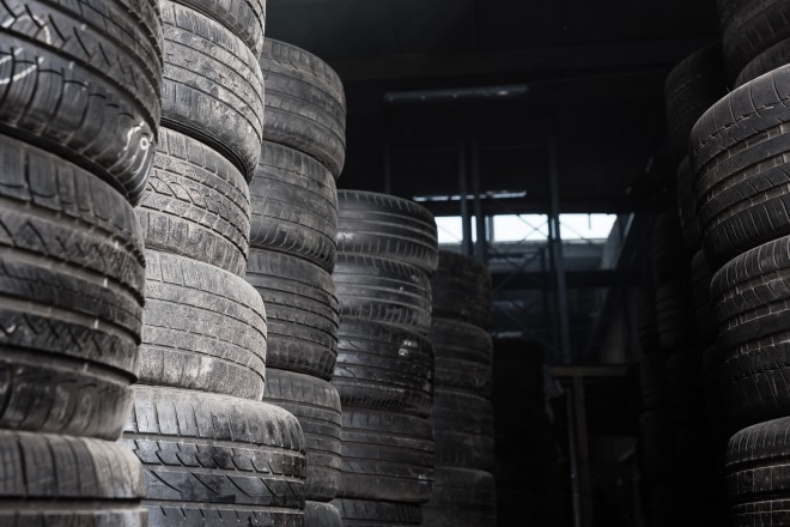
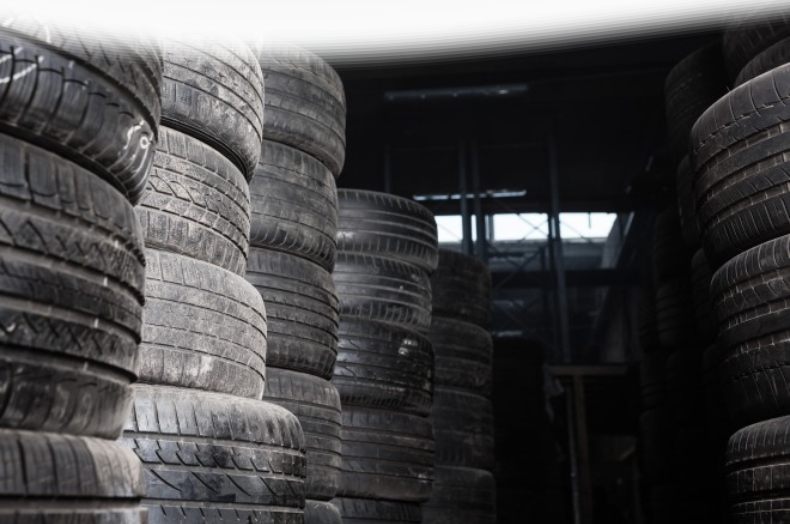
'Добавил секцию '

diff --git a/dist/css/main.min.css b/dist/css/main.min.css
@@ -1,2 +1,2 @@
-abbr,address,article,aside,audio,b,blockquote,body,button,canvas,cite,code,dd,del,details,dfn,div,dl,dt,em,fieldset,figcaption,figure,footer,form,h1,h2,h3,h4,h5,h6,header,hgroup,html,i,iframe,img,ins,kbd,label,legend,li,mark,menu,nav,object,ol,p,pre,q,samp,section,small,span,strong,summary,time,ul,var,video{margin:0;padding:0;border:0;outline:0;font-size:100%;vertical-align:baseline;background:0 0;-webkit-box-sizing:border-box;box-sizing:border-box}abbr:after,abbr:before,address:after,address:before,article:after,article:before,aside:after,aside:before,audio:after,audio:before,b:after,b:before,blockquote:after,blockquote:before,body:after,body:before,button:after,button:before,canvas:after,canvas:before,cite:after,cite:before,code:after,code:before,dd:after,dd:before,del:after,del:before,details:after,details:before,dfn:after,dfn:before,div:after,div:before,dl:after,dl:before,dt:after,dt:before,em:after,em:before,fieldset:after,fieldset:before,figcaption:after,figcaption:before,figure:after,figure:before,footer:after,footer:before,form:after,form:before,h1:after,h1:before,h2:after,h2:before,h3:after,h3:before,h4:after,h4:before,h5:after,h5:before,h6:after,h6:before,header:after,header:before,hgroup:after,hgroup:before,html:after,html:before,i:after,i:before,iframe:after,iframe:before,img:after,img:before,ins:after,ins:before,kbd:after,kbd:before,label:after,label:before,legend:after,legend:before,li:after,li:before,mark:after,mark:before,menu:after,menu:before,nav:after,nav:before,object:after,object:before,ol:after,ol:before,p:after,p:before,pre:after,pre:before,q:after,q:before,samp:after,samp:before,section:after,section:before,small:after,small:before,span:after,span:before,strong:after,strong:before,summary:after,summary:before,time:after,time:before,ul:after,ul:before,var:after,var:before,video:after,video:before{-webkit-box-sizing:border-box;box-sizing:border-box}sub,sup{margin:0;padding:0;border:0;outline:0;font-size:100%;background:0 0;-webkit-box-sizing:border-box;box-sizing:border-box}sub:after,sub:before,sup:after,sup:before{-webkit-box-sizing:border-box;box-sizing:border-box}a:after,a:before{-webkit-box-sizing:border-box;box-sizing:border-box}caption,table,tbody,td,tfoot,th,thead,tr{margin:0;padding:0;border:0;outline:0;font-size:100%;background:0 0}article,aside,details,figcaption,figure,footer,header,hgroup,menu,nav,section{display:block}li,ol,ul{list-style:none}blockquote,q{quotes:none}blockquote:after,blockquote:before{content:none}q:after,q:before{content:none}:focus{outline:0}input[type=text],textarea{-webkit-appearance:none}input[type=text]::-ms-clear,textarea::-ms-clear{display:none}input,textarea{-webkit-border-radius:0;border-radius:0;-webkit-box-sizing:border-box;box-sizing:border-box}input::-webkit-input-placeholder,textarea::-webkit-input-placeholder{color:inherit}input::-moz-placeholder,textarea::-moz-placeholder{color:inherit}input:-ms-input-placeholder,textarea:-ms-input-placeholder{color:inherit}input:focus::-webkit-input-placeholder,textarea:focus::-webkit-input-placeholder{color:transparent}input:focus::-moz-placeholder,textarea:focus::-moz-placeholder{color:transparent}input:focus:-ms-input-placeholder,textarea:focus:-ms-input-placeholder{color:transparent}textarea{resize:none}ins{text-decoration:none}del{text-decoration:line-through}table{border-collapse:collapse;border-spacing:0}*{-webkit-box-sizing:border-box;box-sizing:border-box;word-wrap:break-word}.b-about__icon,.b-certificates__icon{-webkit-border-radius:50%;border-radius:50%}body,html{max-width:100%;overflow-x:hidden}html{font-size:16px}body{font-family:"Myriad Pro",sans-serif;position:relative}a{text-decoration:none!important;-webkit-transition:color .3s ease-in-out;-o-transition:color .3s ease-in-out;transition:color .3s ease-in-out;color:inherit}*{outline:0;-webkit-box-sizing:border-box;box-sizing:border-box}img{-o-object-fit:cover;object-fit:cover;max-width:100%;max-height:100%}svg{max-width:100%;max-height:100%}textarea{resize:none}.first-bg{background:url(../img/main-bg.png) no-repeat center center/cover}.container{max-width:1080px;width:100%;margin-left:auto;margin-right:auto}@media only screen and (max-width:1319px){.container{max-width:none;padding:0 65px}}@media only screen and (max-width:768px){.container{padding:0 9%}}@media only screen and (max-width:576px){.container{padding:0 8%}}@font-face{font-family:Roboto;src:url(../fonts/RobotoLight/RobotoLight.eot);src:url(../fonts/RobotoLight/RobotoLight.eot?#iefix) format("embedded-opentype"),url(../fonts/RobotoLight/RobotoLight.woff) format("woff"),url(../fonts/RobotoLight/RobotoLight.ttf) format("truetype"),url(../fonts/RobotoLight/RobotoLight.svg) format("svg");font-weight:300}@font-face{font-family:Roboto;src:url(../fonts/RobotoBold/RobotoBold.eot);src:url(../fonts/RobotoBold/RobotoBold.eot?#iefix) format("embedded-opentype"),url(../fonts/RobotoBold/RobotoBold.woff) format("woff"),url(../fonts/RobotoBold/RobotoBold.ttf) format("truetype"),url(../fonts/RobotoBold/RobotoBold.svg) format("svg");font-weight:700}@font-face{font-family:"Myriad Pro";src:url(../fonts/MyriadProRegular/MyriadProRegular.eot);src:url(../fonts/MyriadProRegular/MyriadProRegular.eot?#iefix) format("embedded-opentype"),url(../fonts/MyriadProRegular/MyriadProRegular.woff) format("woff"),url(../fonts/MyriadProRegular/MyriadProRegular.ttf) format("truetype"),url(../fonts/MyriadProRegular/MyriadProRegular.svg) format("svg");font-weight:400}@font-face{font-family:"Myriad Pro";src:url(../fonts/MyriadProBold/MyriadProBold.eot);src:url(../fonts/MyriadProBold/MyriadProBold.eot?#iefix) format("embedded-opentype"),url(../fonts/MyriadProBold/MyriadProBold.woff) format("woff"),url(../fonts/MyriadProBold/MyriadProBold.ttf) format("truetype"),url(../fonts/MyriadProBold/MyriadProBold.svg) format("svg");font-weight:700}@font-face{font-family:"Myriad Pro Cond";src:url(../fonts/MyriadProCond/MyriadProCond.eot);src:url(../fonts/MyriadProCond/MyriadProCond.eot?#iefix) format("embedded-opentype"),url(../fonts/MyriadProCond/MyriadProCond.woff) format("woff"),url(../fonts/MyriadProCond/MyriadProCond.ttf) format("truetype"),url(../fonts/MyriadProCond/MyriadProCond.svg) format("svg");font-weight:400}.b-burger{display:none;border:none;background:0 0;-webkit-box-shadow:none;box-shadow:none;width:32px;height:20px;position:relative;-webkit-transform:rotate(0);-ms-transform:rotate(0);transform:rotate(0);-webkit-transition:.5s ease-in-out;-o-transition:.5s ease-in-out;transition:.5s ease-in-out;cursor:pointer}.b-burger span{display:block;position:absolute;height:4px;width:100%;-webkit-border-radius:9px;border-radius:9px;-webkit-transform:rotate(0);-ms-transform:rotate(0);transform:rotate(0);-webkit-transition:.25s ease-in-out;-o-transition:.25s ease-in-out;transition:.25s ease-in-out;opacity:1;left:0}.b-burger span:nth-child(1){top:0;-webkit-transform-origin:center center;-ms-transform-origin:center center;transform-origin:center center}.b-burger span:nth-child(2){top:50%;-webkit-transform-origin:left center;-ms-transform-origin:left center;transform-origin:left center}.b-burger span:nth-child(3){top:100%;-webkit-transform-origin:center center;-ms-transform-origin:center center;transform-origin:center center}.b-burger--active span:nth-child(1){-webkit-transform:translate(0,-50%) rotate(45deg);-ms-transform:translate(0,-50%) rotate(45deg);transform:translate(0,-50%) rotate(45deg);top:50%}.b-burger--active span:nth-child(2){width:0;opacity:0}.b-burger--active span:nth-child(3){-webkit-transform:translate(0,-50%) rotate(-45deg);-ms-transform:translate(0,-50%) rotate(-45deg);transform:translate(0,-50%) rotate(-45deg);top:50%}.b-logo{width:120px;height:210px;background:#fff;padding:27px 5px 5px;text-align:center;color:#000;-webkit-border-bottom-right-radius:55px;border-bottom-right-radius:55px;-webkit-border-bottom-left-radius:55px;border-bottom-left-radius:55px}.b-logo span{font-size:1rem;font-weight:700;text-transform:uppercase;letter-spacing:-1px;line-height:14px;display:inline-block}.b-logo p{font-size:5.5rem;font-weight:700;text-transform:uppercase;line-height:70px;font-family:'Myriad Pro Cond',sans-serif;letter-spacing:-2px}.b-logo img{margin-top:-15px}.b-button{display:-webkit-box;display:-webkit-flex;display:-ms-flexbox;display:flex;-webkit-box-pack:center;-webkit-justify-content:center;-ms-flex-pack:center;justify-content:center;-webkit-box-align:center;-webkit-align-items:center;-ms-flex-align:center;align-items:center;-webkit-box-shadow:none;box-shadow:none;border:none;background:#75b53e;cursor:pointer;-webkit-transition:all .3s ease-in-out;-o-transition:all .3s ease-in-out;transition:all .3s ease-in-out}.b-button__content{color:#fff}.b-button--large{width:220px;height:65px;-webkit-border-radius:50px;border-radius:50px}.b-button--large span{font-size:1.25rem;font-weight:700;text-transform:uppercase;letter-spacing:-1px}.b-button:hover{background:rgba(117,181,62,.8)}.b-next{display:-webkit-inline-box;display:-webkit-inline-flex;display:-ms-inline-flexbox;display:inline-flex;-webkit-box-align:center;-webkit-align-items:center;-ms-flex-align:center;align-items:center}.b-next svg{width:14px;height:14px;margin-right:6px}.b-next span{font-size:.625rem;color:#626366}.b-header{color:#fff}.b-header__container{max-width:1170px;margin-left:auto;margin-right:auto;display:-webkit-box;display:-webkit-flex;display:-ms-flexbox;display:flex;-webkit-box-pack:justify;-webkit-justify-content:space-between;-ms-flex-pack:justify;justify-content:space-between}.b-header__contacts{padding-top:27px}.b-header__contacts a{-webkit-transition:all .3s ease-in-out;-o-transition:all .3s ease-in-out;transition:all .3s ease-in-out}.b-header__contacts a:hover{color:#75b53e}.b-header__phone{font-size:1.5rem;letter-spacing:-.24px;display:block}.b-header__call{font-size:.875rem}.b-menu{padding-top:27px;display:-webkit-box;display:-webkit-flex;display:-ms-flexbox;display:flex;-webkit-box-pack:justify;-webkit-justify-content:space-between;-ms-flex-pack:justify;justify-content:space-between;width:561px;font-size:.875rem;font-weight:700;text-transform:uppercase}.b-menu__link{-webkit-transition:all .3s ease-in-out;-o-transition:all .3s ease-in-out;transition:all .3s ease-in-out;display:inline-table}.b-menu__link:hover{color:#75b53e}.b-main{padding-bottom:150px;margin-top:58px;color:#fff}.b-main__container{max-width:1170px;margin-left:auto;margin-right:auto}.b-main__title{font-size:2.5rem;font-weight:700;text-transform:uppercase;font-family:Roboto,sans-serif;max-width:336px;letter-spacing:-1px;margin-bottom:15px}.b-main__text{font-size:1.5rem;max-width:660px;letter-spacing:-.6px;-webkit-hyphens:auto;-ms-hyphens:auto;hyphens:auto}.b-main__button{margin-top:35px}.b-cards{margin-top:150px;position:relative}.b-cards::before{content:"";display:block;position:absolute;width:100%;height:40%;bottom:0;background-color:#f7f7f7;z-index:-1}.b-cards__items{display:-webkit-box;display:-webkit-flex;display:-ms-flexbox;display:flex;-webkit-box-pack:justify;-webkit-justify-content:space-between;-ms-flex-pack:justify;justify-content:space-between;-webkit-box-align:center;-webkit-align-items:center;-ms-flex-align:center;align-items:center}.b-cards__item{width:345px;height:450px;position:relative;padding:0 26px;color:#fff}.b-cards__bg{position:absolute;top:0;left:0;z-index:-1}.b-cards__icon{width:40px;height:40px;margin-top:126px;margin-bottom:30px}.b-cards__text{font-size:1.625rem;font-weight:700;text-transform:uppercase;font-family:Roboto,sans-serif;max-width:245px}.b-about{background-color:#f7f7f7;padding-top:127px;text-align:center;position:relative}.b-about__title{font-size:2.25rem;font-weight:700;font-family:Roboto,sans-serif;margin-bottom:13px}.b-about__subtitle{font-size:1.125rem;letter-spacing:-.18px;margin-left:auto;margin-right:auto;color:#626366;line-height:23px}.b-about__cards{margin-top:90px;max-width:980px;display:-webkit-box;display:-webkit-flex;display:-ms-flexbox;display:flex;-webkit-box-pack:justify;-webkit-justify-content:space-between;-ms-flex-pack:justify;justify-content:space-between;-webkit-box-align:center;-webkit-align-items:center;-ms-flex-align:center;align-items:center}.b-about__card{width:200px;text-align:center}.b-about__icon{background:#38424b;width:113px;height:113px;display:-webkit-box;display:-webkit-flex;display:-ms-flexbox;display:flex;-webkit-box-pack:center;-webkit-justify-content:center;-ms-flex-pack:center;justify-content:center;-webkit-box-align:center;-webkit-align-items:center;-ms-flex-align:center;align-items:center;margin-left:auto;margin-right:auto;margin-bottom:50px}.b-about__name{font-size:1.125rem;font-weight:700;letter-spacing:-1px;margin-bottom:10px;line-height:20px;height:45px}.b-about__text{font-size:.625rem;color:#626366;letter-spacing:-.18px;margin-bottom:37px}.b-about::before{content:"";display:block;position:absolute;background:url(../img/about-bg.png) no-repeat center center/cover;bottom:-100px;z-index:-1;width:100%;height:200px}.b-clear{background:url(../img/clear-bg.png) no-repeat center center/100%;padding-top:130px;margin-top:250px;position:relative;color:#000;height:930px}.b-clear__title{font-size:3.125rem;font-weight:700;font-family:Roboto,sans-serif;line-height:61px;text-align:center;max-width:750px;margin-left:auto;margin-right:auto}.b-certificates{background-color:#f7f7f7;padding-top:125px;padding-bottom:191px}.b-certificates__title{margin-left:40px;font-size:2.25rem;font-weight:700;font-family:Roboto,sans-serif;margin-bottom:95px}.b-certificates__cards{display:-webkit-box;display:-webkit-flex;display:-ms-flexbox;display:flex;-webkit-box-pack:justify;-webkit-justify-content:space-between;-ms-flex-pack:justify;justify-content:space-between;-webkit-box-align:center;-webkit-align-items:center;-ms-flex-align:center;align-items:center}.b-certificates__card{max-width:251px;text-align:center}.b-certificates__icon{width:113px;height:113px;background:#38424b;display:-webkit-box;display:-webkit-flex;display:-ms-flexbox;display:flex;-webkit-box-pack:center;-webkit-justify-content:center;-ms-flex-pack:center;justify-content:center;-webkit-box-align:center;-webkit-align-items:center;-ms-flex-align:center;align-items:center;margin-left:auto;margin-right:auto;margin-bottom:25px}.b-certificates__name{font-size:1.125rem;font-weight:700;letter-spacing:-.18px;color:#231f20;margin-bottom:10px}.b-certificates__text{font-size:.625rem;color:#626366;line-height:14px;letter-spacing:-.18px;margin-bottom:34px}.b-scope{padding-top:120px;padding-left:31px}.b-scope__title{font-size:2.25rem;font-weight:700;font-family:Roboto,sans-serif;margin-bottom:31px}.b-scope__cards{display:-webkit-box;display:-webkit-flex;display:-ms-flexbox;display:flex;-webkit-box-pack:justify;-webkit-justify-content:space-between;-ms-flex-pack:justify;justify-content:space-between;max-width:1000px}.b-scope__card{width:315px}.b-scope__img{margin-bottom:13px}.b-scope__name{font-size:1.125rem;font-weight:700;font-family:Roboto,sans-serif;letter-spacing:-.9px;color:#75b53e;margin-bottom:12px}.b-scope__text{font-size:.625rem;color:#626366;line-height:14px;margin-bottom:20px}
+abbr,address,article,aside,audio,b,blockquote,body,button,canvas,cite,code,dd,del,details,dfn,div,dl,dt,em,fieldset,figcaption,figure,footer,form,h1,h2,h3,h4,h5,h6,header,hgroup,html,i,iframe,img,ins,kbd,label,legend,li,mark,menu,nav,object,ol,p,pre,q,samp,section,small,span,strong,summary,time,ul,var,video{margin:0;padding:0;border:0;outline:0;font-size:100%;vertical-align:baseline;background:0 0;-webkit-box-sizing:border-box;box-sizing:border-box}abbr:after,abbr:before,address:after,address:before,article:after,article:before,aside:after,aside:before,audio:after,audio:before,b:after,b:before,blockquote:after,blockquote:before,body:after,body:before,button:after,button:before,canvas:after,canvas:before,cite:after,cite:before,code:after,code:before,dd:after,dd:before,del:after,del:before,details:after,details:before,dfn:after,dfn:before,div:after,div:before,dl:after,dl:before,dt:after,dt:before,em:after,em:before,fieldset:after,fieldset:before,figcaption:after,figcaption:before,figure:after,figure:before,footer:after,footer:before,form:after,form:before,h1:after,h1:before,h2:after,h2:before,h3:after,h3:before,h4:after,h4:before,h5:after,h5:before,h6:after,h6:before,header:after,header:before,hgroup:after,hgroup:before,html:after,html:before,i:after,i:before,iframe:after,iframe:before,img:after,img:before,ins:after,ins:before,kbd:after,kbd:before,label:after,label:before,legend:after,legend:before,li:after,li:before,mark:after,mark:before,menu:after,menu:before,nav:after,nav:before,object:after,object:before,ol:after,ol:before,p:after,p:before,pre:after,pre:before,q:after,q:before,samp:after,samp:before,section:after,section:before,small:after,small:before,span:after,span:before,strong:after,strong:before,summary:after,summary:before,time:after,time:before,ul:after,ul:before,var:after,var:before,video:after,video:before{-webkit-box-sizing:border-box;box-sizing:border-box}sub,sup{margin:0;padding:0;border:0;outline:0;font-size:100%;background:0 0;-webkit-box-sizing:border-box;box-sizing:border-box}sub:after,sub:before,sup:after,sup:before{-webkit-box-sizing:border-box;box-sizing:border-box}a:after,a:before{-webkit-box-sizing:border-box;box-sizing:border-box}caption,table,tbody,td,tfoot,th,thead,tr{margin:0;padding:0;border:0;outline:0;font-size:100%;background:0 0}article,aside,details,figcaption,figure,footer,header,hgroup,menu,nav,section{display:block}li,ol,ul{list-style:none}blockquote,q{quotes:none}blockquote:after,blockquote:before{content:none}q:after,q:before{content:none}:focus{outline:0}input[type=text],textarea{-webkit-appearance:none}input[type=text]::-ms-clear,textarea::-ms-clear{display:none}input,textarea{-webkit-border-radius:0;border-radius:0;-webkit-box-sizing:border-box;box-sizing:border-box}input::-webkit-input-placeholder,textarea::-webkit-input-placeholder{color:inherit}input::-moz-placeholder,textarea::-moz-placeholder{color:inherit}input:-ms-input-placeholder,textarea:-ms-input-placeholder{color:inherit}input:focus::-webkit-input-placeholder,textarea:focus::-webkit-input-placeholder{color:transparent}input:focus::-moz-placeholder,textarea:focus::-moz-placeholder{color:transparent}input:focus:-ms-input-placeholder,textarea:focus:-ms-input-placeholder{color:transparent}textarea{resize:none}ins{text-decoration:none}del{text-decoration:line-through}table{border-collapse:collapse;border-spacing:0}*{-webkit-box-sizing:border-box;box-sizing:border-box;word-wrap:break-word}.b-about__icon,.b-certificates__icon{-webkit-border-radius:50%;border-radius:50%}body,html{max-width:100%;overflow-x:hidden}html{font-size:16px}body{font-family:"Myriad Pro",sans-serif;position:relative}a{text-decoration:none!important;-webkit-transition:color .3s ease-in-out;-o-transition:color .3s ease-in-out;transition:color .3s ease-in-out;color:inherit}*{outline:0;-webkit-box-sizing:border-box;box-sizing:border-box}img{-o-object-fit:cover;object-fit:cover;max-width:100%;max-height:100%}svg{max-width:100%;max-height:100%}textarea{resize:none}.first-bg{background:url(../img/main-bg.png) no-repeat center center/cover}.container{max-width:1080px;width:100%;margin-left:auto;margin-right:auto}@media only screen and (max-width:1319px){.container{max-width:none;padding:0 65px}}@media only screen and (max-width:768px){.container{padding:0 9%}}@media only screen and (max-width:576px){.container{padding:0 8%}}@font-face{font-family:Roboto;src:url(../fonts/RobotoLight/RobotoLight.eot);src:url(../fonts/RobotoLight/RobotoLight.eot?#iefix) format("embedded-opentype"),url(../fonts/RobotoLight/RobotoLight.woff) format("woff"),url(../fonts/RobotoLight/RobotoLight.ttf) format("truetype"),url(../fonts/RobotoLight/RobotoLight.svg) format("svg");font-weight:300}@font-face{font-family:Roboto;src:url(../fonts/RobotoBold/RobotoBold.eot);src:url(../fonts/RobotoBold/RobotoBold.eot?#iefix) format("embedded-opentype"),url(../fonts/RobotoBold/RobotoBold.woff) format("woff"),url(../fonts/RobotoBold/RobotoBold.ttf) format("truetype"),url(../fonts/RobotoBold/RobotoBold.svg) format("svg");font-weight:700}@font-face{font-family:"Myriad Pro";src:url(../fonts/MyriadProRegular/MyriadProRegular.eot);src:url(../fonts/MyriadProRegular/MyriadProRegular.eot?#iefix) format("embedded-opentype"),url(../fonts/MyriadProRegular/MyriadProRegular.woff) format("woff"),url(../fonts/MyriadProRegular/MyriadProRegular.ttf) format("truetype"),url(../fonts/MyriadProRegular/MyriadProRegular.svg) format("svg");font-weight:400}@font-face{font-family:"Myriad Pro";src:url(../fonts/MyriadProBold/MyriadProBold.eot);src:url(../fonts/MyriadProBold/MyriadProBold.eot?#iefix) format("embedded-opentype"),url(../fonts/MyriadProBold/MyriadProBold.woff) format("woff"),url(../fonts/MyriadProBold/MyriadProBold.ttf) format("truetype"),url(../fonts/MyriadProBold/MyriadProBold.svg) format("svg");font-weight:700}@font-face{font-family:"Myriad Pro Cond";src:url(../fonts/MyriadProCond/MyriadProCond.eot);src:url(../fonts/MyriadProCond/MyriadProCond.eot?#iefix) format("embedded-opentype"),url(../fonts/MyriadProCond/MyriadProCond.woff) format("woff"),url(../fonts/MyriadProCond/MyriadProCond.ttf) format("truetype"),url(../fonts/MyriadProCond/MyriadProCond.svg) format("svg");font-weight:400}.b-burger{display:none;border:none;background:0 0;-webkit-box-shadow:none;box-shadow:none;width:32px;height:20px;position:relative;-webkit-transform:rotate(0);-ms-transform:rotate(0);transform:rotate(0);-webkit-transition:.5s ease-in-out;-o-transition:.5s ease-in-out;transition:.5s ease-in-out;cursor:pointer}.b-burger span{display:block;position:absolute;height:4px;width:100%;-webkit-border-radius:9px;border-radius:9px;-webkit-transform:rotate(0);-ms-transform:rotate(0);transform:rotate(0);-webkit-transition:.25s ease-in-out;-o-transition:.25s ease-in-out;transition:.25s ease-in-out;opacity:1;left:0}.b-burger span:nth-child(1){top:0;-webkit-transform-origin:center center;-ms-transform-origin:center center;transform-origin:center center}.b-burger span:nth-child(2){top:50%;-webkit-transform-origin:left center;-ms-transform-origin:left center;transform-origin:left center}.b-burger span:nth-child(3){top:100%;-webkit-transform-origin:center center;-ms-transform-origin:center center;transform-origin:center center}.b-burger--active span:nth-child(1){-webkit-transform:translate(0,-50%) rotate(45deg);-ms-transform:translate(0,-50%) rotate(45deg);transform:translate(0,-50%) rotate(45deg);top:50%}.b-burger--active span:nth-child(2){width:0;opacity:0}.b-burger--active span:nth-child(3){-webkit-transform:translate(0,-50%) rotate(-45deg);-ms-transform:translate(0,-50%) rotate(-45deg);transform:translate(0,-50%) rotate(-45deg);top:50%}.b-logo{width:120px;height:210px;background:#fff;padding:27px 5px 5px;text-align:center;color:#000;-webkit-border-bottom-right-radius:55px;border-bottom-right-radius:55px;-webkit-border-bottom-left-radius:55px;border-bottom-left-radius:55px}.b-logo span{font-size:1rem;font-weight:700;text-transform:uppercase;letter-spacing:-1px;line-height:14px;display:inline-block}.b-logo p{font-size:5.5rem;font-weight:700;text-transform:uppercase;line-height:70px;font-family:'Myriad Pro Cond',sans-serif;letter-spacing:-2px}.b-logo img{margin-top:-15px}.b-button{display:-webkit-box;display:-webkit-flex;display:-ms-flexbox;display:flex;-webkit-box-pack:true;-webkit-justify-content:true;-ms-flex-pack:true;justify-content:true;-webkit-box-align:true;-webkit-align-items:true;-ms-flex-align:true;align-items:true;-webkit-box-shadow:none;box-shadow:none;border:none;background:#75b53e;cursor:pointer;-webkit-transition:all .3s ease-in-out;-o-transition:all .3s ease-in-out;transition:all .3s ease-in-out}.b-button__content{color:#fff}.b-button--large{width:220px;height:65px;-webkit-box-pack:center;-webkit-justify-content:center;-ms-flex-pack:center;justify-content:center;-webkit-border-radius:50px;border-radius:50px}.b-button--large span{font-size:1.25rem;font-weight:700;text-transform:uppercase;letter-spacing:-1px}.b-button:hover{background:rgba(117,181,62,.8)}.b-button--small{width:70px;height:30px;-webkit-box-pack:center;-webkit-justify-content:center;-ms-flex-pack:center;justify-content:center;-webkit-border-radius:10px;border-radius:10px;display:-webkit-inline-box;display:-webkit-inline-flex;display:-ms-inline-flexbox;display:inline-flex;color:#fff;font-family:Roboto,sans-serif;line-height:14px;font-size:.625rem;font-weight:700}.b-next{display:-webkit-inline-box;display:-webkit-inline-flex;display:-ms-inline-flexbox;display:inline-flex;-webkit-box-align:center;-webkit-align-items:center;-ms-flex-align:center;align-items:center}.b-next svg{width:14px;height:14px;margin-right:6px}.b-next span{font-size:.625rem;color:#626366}.bTitle-h2{font-family:Roboto,sans-serif;font-size:36px;color:#231f20;margin-bottom:35px;font-weight:700}.b-header{color:#fff}.b-header__container{max-width:1170px;margin-left:auto;margin-right:auto;display:-webkit-box;display:-webkit-flex;display:-ms-flexbox;display:flex;-webkit-box-pack:justify;-webkit-justify-content:space-between;-ms-flex-pack:justify;justify-content:space-between}.b-header__contacts{padding-top:27px}.b-header__contacts a{-webkit-transition:all .3s ease-in-out;-o-transition:all .3s ease-in-out;transition:all .3s ease-in-out}.b-header__contacts a:hover{color:#75b53e}.b-header__phone{font-size:1.5rem;letter-spacing:-.24px;display:block}.b-header__call{font-size:.875rem}.b-menu{padding-top:27px;display:-webkit-box;display:-webkit-flex;display:-ms-flexbox;display:flex;-webkit-box-pack:justify;-webkit-justify-content:space-between;-ms-flex-pack:justify;justify-content:space-between;width:561px;font-size:.875rem;font-weight:700;text-transform:uppercase}.b-menu__link{-webkit-transition:all .3s ease-in-out;-o-transition:all .3s ease-in-out;transition:all .3s ease-in-out;display:inline-table}.b-menu__link:hover{color:#75b53e}.b-main{padding-bottom:150px;margin-top:58px;color:#fff}.b-main__container{max-width:1170px;margin-left:auto;margin-right:auto}.b-main__title{font-size:2.5rem;font-weight:700;text-transform:uppercase;font-family:Roboto,sans-serif;max-width:336px;letter-spacing:-1px;margin-bottom:15px}.b-main__text{font-size:1.5rem;max-width:660px;letter-spacing:-.6px;-webkit-hyphens:auto;-ms-hyphens:auto;hyphens:auto}.b-main__button{margin-top:35px}.b-cards{margin-top:150px;position:relative}.b-cards::before{content:"";display:block;position:absolute;width:100%;height:40%;bottom:0;background-color:#f7f7f7;z-index:-1}.b-cards__items{display:-webkit-box;display:-webkit-flex;display:-ms-flexbox;display:flex;-webkit-box-pack:justify;-webkit-justify-content:space-between;-ms-flex-pack:justify;justify-content:space-between;-webkit-box-align:center;-webkit-align-items:center;-ms-flex-align:center;align-items:center}.b-cards__item{width:345px;height:450px;position:relative;padding:0 26px;color:#fff}.b-cards__bg{position:absolute;top:0;left:0;z-index:-1}.b-cards__icon{width:40px;height:40px;margin-top:126px;margin-bottom:30px}.b-cards__text{font-size:1.625rem;font-weight:700;text-transform:uppercase;font-family:Roboto,sans-serif;max-width:245px}.b-about{background-color:#f7f7f7;padding-top:127px;text-align:center;position:relative}.b-about__title{font-size:2.25rem;font-weight:700;font-family:Roboto,sans-serif;margin-bottom:13px}.b-about__subtitle{font-size:1.125rem;letter-spacing:-.18px;margin-left:auto;margin-right:auto;color:#626366;line-height:23px}.b-about__cards{margin-top:90px;max-width:980px;display:-webkit-box;display:-webkit-flex;display:-ms-flexbox;display:flex;-webkit-box-pack:justify;-webkit-justify-content:space-between;-ms-flex-pack:justify;justify-content:space-between;-webkit-box-align:center;-webkit-align-items:center;-ms-flex-align:center;align-items:center}.b-about__card{width:200px;text-align:center}.b-about__icon{background:#38424b;width:113px;height:113px;display:-webkit-box;display:-webkit-flex;display:-ms-flexbox;display:flex;-webkit-box-pack:center;-webkit-justify-content:center;-ms-flex-pack:center;justify-content:center;-webkit-box-align:center;-webkit-align-items:center;-ms-flex-align:center;align-items:center;margin-left:auto;margin-right:auto;margin-bottom:50px}.b-about__name{font-size:1.125rem;font-weight:700;letter-spacing:-1px;margin-bottom:10px;line-height:20px;height:45px}.b-about__text{font-size:.625rem;color:#626366;letter-spacing:-.18px;margin-bottom:37px}.b-about::before{content:"";display:block;position:absolute;background:url(../img/about-bg.png) no-repeat center center/cover;bottom:-100px;z-index:-1;width:100%;height:200px}.b-clear{background:url(../img/clear-bg.png) no-repeat center center/100%;padding-top:130px;margin-top:250px;position:relative;color:#000;height:930px}.b-clear__title{font-size:3.125rem;font-weight:700;font-family:Roboto,sans-serif;line-height:61px;text-align:center;max-width:750px;margin-left:auto;margin-right:auto}.b-certificates{background-color:#f7f7f7;padding-top:125px;padding-bottom:191px}.b-certificates__title{margin-left:40px;font-size:2.25rem;font-weight:700;font-family:Roboto,sans-serif;margin-bottom:95px}.b-certificates__cards{display:-webkit-box;display:-webkit-flex;display:-ms-flexbox;display:flex;-webkit-box-pack:justify;-webkit-justify-content:space-between;-ms-flex-pack:justify;justify-content:space-between;-webkit-box-align:center;-webkit-align-items:center;-ms-flex-align:center;align-items:center}.b-certificates__card{max-width:251px;text-align:center}.b-certificates__icon{width:113px;height:113px;background:#38424b;display:-webkit-box;display:-webkit-flex;display:-ms-flexbox;display:flex;-webkit-box-pack:center;-webkit-justify-content:center;-ms-flex-pack:center;justify-content:center;-webkit-box-align:center;-webkit-align-items:center;-ms-flex-align:center;align-items:center;margin-left:auto;margin-right:auto;margin-bottom:25px}.b-certificates__name{font-size:1.125rem;font-weight:700;letter-spacing:-.18px;color:#231f20;margin-bottom:10px}.b-certificates__text{font-size:.625rem;color:#626366;line-height:14px;letter-spacing:-.18px;margin-bottom:34px}.b-scope{padding-top:120px;padding-left:31px}.b-scope__title{font-size:2.25rem;font-weight:700;font-family:Roboto,sans-serif;margin-bottom:31px}.b-scope__cards{display:-webkit-box;display:-webkit-flex;display:-ms-flexbox;display:flex;-webkit-box-pack:justify;-webkit-justify-content:space-between;-ms-flex-pack:justify;justify-content:space-between;max-width:1000px}.b-scope__card{width:315px}.b-scope__img{margin-bottom:13px}.b-scope__name{font-size:1.125rem;font-weight:700;font-family:Roboto,sans-serif;letter-spacing:-.9px;color:#75b53e;margin-bottom:12px}.b-scope__text{font-size:.625rem;color:#626366;line-height:14px;margin-bottom:20px}.b-recycling{padding-top:70px;padding-bottom:82px;background-color:#f7f7f7}.b-recycling__offers{display:-webkit-box;display:-webkit-flex;display:-ms-flexbox;display:flex;-webkit-box-pack:justify;-webkit-justify-content:space-between;-ms-flex-pack:justify;justify-content:space-between;-webkit-box-align:end;-webkit-align-items:flex-end;-ms-flex-align:end;align-items:flex-end}.b-recycling__card{width:33.33%;margin-right:50px}.b-recycling__card:last-child{margin-right:0}.b-recycling__image-wrap{margin-bottom:14px}.b-recycling__card-title{font-family:"Myriad Pro",sans-serif;font-size:18px;line-height:21px;color:#75b53e;max-width:300px;margin-bottom:9px;padding-left:50px}.b-recycling__card-descr{font-family:"Myriad Pro",sans-serif;font-size:10px;line-height:14px;color:#626366;max-width:300px;margin-bottom:20px;padding-left:50px}.b-recycling__card .b-button{margin-left:50px}.b-recycling__title-wrap{display:-webkit-box;display:-webkit-flex;display:-ms-flexbox;display:flex;-webkit-box-align:center;-webkit-align-items:center;-ms-flex-align:center;align-items:center;position:relative}.b-recycling__icon{position:absolute;left:0;top:50%;-webkit-transform:translateY(-50%);-ms-transform:translateY(-50%);transform:translateY(-50%)}.b-recycling__icon--2{top:13px;left:15px}.b-recycling__icon--3{top:17px;left:4px}.b-recycling__image--3{margin-left:37px}.b-equipment{padding-top:38px;padding-bottom:33px;position:relative;display:-webkit-box;display:-webkit-flex;display:-ms-flexbox;display:flex}.b-equipment__image{background-image:url(../img/utilization/bg.jpg);background-repeat:no-repeat;-webkit-background-size:cover;background-size:cover}.b-equipment__image{position:absolute;left:0;top:0;width:53%;max-width:790px;height:100%}.b-equipment__content{max-width:500px;padding-left:80px;margin-left:auto}.b-equipment__descr{font-size:18px;font-family:"Myriad Pro",sans-serif;line-height:23px;color:#231f20;margin-bottom:20px}.b-equipment__button{margin-top:84px}.b-order-track{padding-top:56px;padding-bottom:100px;background-color:#f7f7f7}.b-order-track__container{display:-webkit-box;display:-webkit-flex;display:-ms-flexbox;display:flex;-webkit-box-align:center;-webkit-align-items:center;-ms-flex-align:center;align-items:center;-webkit-box-pack:justify;-webkit-justify-content:space-between;-ms-flex-pack:justify;justify-content:space-between}.b-order-track__content{max-width:560px;padding-bottom:97px}.b-order-track__title{margin-bottom:97px}.b-order-track__descr{max-width:350px;font-family:"Myriad Pro",sans-serif;font-size:18px;color:#231f20;line-height:23px}.b-order-track__button{margin-top:135px}.b-order-track__logo{margin-right:180px}
 /*# sourceMappingURL=main.min.css.map */

diff --git a/dist/utilization.html b/dist/utilization.html
@@ -14,10 +14,24 @@
   <!-- Global site tag (gtag.js) - Google Analytics-->
 </head>
 <body>
-  <!--.first-bg
-  //include ../blocks/_header
-  //include ../blocks/_main
-  -->
+  <div class="first-bg">
+    <header class="b-header" id="header">
+      <div class="b-header__container">
+        <div class="b-logo b-header__logo"><span>Дмитровский  завод</span>
+          <p>РТИ</p><img src="img/logo.png">
+        </div>
+        <nav class="b-menu b-header__menu"><a class="b-menu__link" href="#header">Главная</a><a class="b-menu__link" href="#partnership">Сотрудничество</a><a class="b-menu__link" href="#pricelist">Прайс-лист</a><a class="b-menu__link" href="#certificates">Сертификаты</a><a class="b-menu__link" href="#implementation">Внедрение</a><a class="b-menu__link" href="#contacts">Контакты</a></nav>
+        <div class="b-header__contacts"><a class="b-header__phone" href="tel:+74951182383">+7 (495) 118 2383</a><a class="b-header__call js-show-popup" href="#">Заказать обратный звонок</a></div>
+      </div>
+    </header>
+    <section class="b-main">
+      <div class="b-main__container">
+        <h1 class="b-main__title">Спасаем мир от старых шин</h1>
+        <p class="b-main__text">Мы готовы принять от Вас шины в любом состоянии соверешенно <strong>бесплатно.</strong> Сообщите нам по телефону <a href="tel:+74951182383"><strong>+7 (495) 118 2383 </strong></a>, или оставьте заявку и мы приедем и заберем шины на утилизацию.</p>
+        <button class="b-button b-button--large b-main__button"><span class="b-button__content">Оставить заявку</span></button>
+      </div>
+    </section>
+  </div>
   <main>
     <section class="b-recycling">
       <div class="container">
@@ -58,8 +72,25 @@
     </section>
     <section class="b-equipment">
       <div class="container">
+        <div class="b-equipment__image"></div>
         <div class="b-equipment__content">
-          <h2 class="bTitle-h2">Оборудование площадок для приема шин на утилизацию</h2>
+          <h2 class="b-equipment__title bTitle-h2">Оборудование площадок <br> для приема шин на утилизацию</h2>
+          <p class="b-equipment__descr">ООО «Дмитровский завод РТИ» приглашаетк сотрудничеству территориальные единицы для организации площадок для приема шин на утилизацию</p>
+          <p class="b-equipment__descr">Мы БЕСПЛАТНО поставим контейнер для сбора шин, и будем следить за его наполнением.</p>
+          <button class="b-equipment__button b-button b-button--large" type="button"><span class="b-button__content">оставить заявку</span></button>
+        </div>
+      </div>
+    </section>
+    <section class="b-order-track">
+      <div class="container b-order-track__container">
+        <div class="b-order-track__content">
+          <h2 class="b-order-track__title bTitle-h2">Заказать бесплатно грузовик для вывоза отработанных шин</h2>
+          <p class="b-order-track__descr">ООО «Дмитровский завод РТИ» приглашает к сотрудничеству предприятия, нуждающиеся в утилизации: покрышек, шин, колес.</p>
+          <p class="b-order-track__descr">Мы БЕСПЛАТНО вывезем резиновые отходы в том числе автомобильные шины с вашего предприятия, предоставляя необходимые документы для отчетности.</p>
+          <button class="b-order-track__button b-button b-button--large" type="button"><span class="b-button__content">оставить заявку</span></button>
+        </div>
+        <div class="b-order-track__logo b-logo"><span>Дмитровский завод</span>
+          <p>РТИ</p><img src="img/logo.png">
         </div>
       </div>
     </section>

diff --git a/src/scss/blocks/_utilization/_equipment.scss b/src/scss/blocks/_utilization/_equipment.scss
@@ -1,0 +1,40 @@
+.b-equipment {
+    padding-top: 38px;
+    padding-bottom: 33px;
+    position: relative;
+    display: flex;
+}
+
+.b-equipment__image {
+    background-image: url("../img/utilization/bg.jpg ");
+    background-repeat: no-repeat;
+    background-size: cover;
+}
+
+.b-equipment__image {
+    position: absolute;
+    left: 0;
+    top: 0;
+    width: 53%;
+    max-width: 790px;
+    height: 100%;
+}
+
+.b-equipment__content {
+    max-width: 500px;
+    padding-left: 80px;
+    margin-left: auto;
+}
+
+.b-equipment__descr {
+    font-size: 18px;
+    font-family: $mainFont;
+    line-height: 23px;
+    color: $dark;
+    margin-bottom: 20px;
+}
+
+.b-equipment__button {
+    margin-top: 84px;
+}
+

diff --git a/src/scss/ui/_bButton.scss b/src/scss/ui/_bButton.scss
@@ -10,6 +10,7 @@
   }
   &--large {
     @include size(220px, 65px);
+    justify-content: center;
     border-radius: 50px;
     span {
       @include font(20, bold, true);
@@ -21,13 +22,13 @@
 
   }
   &--small {
-    @iclude size(70px, 30px);
-    min-width: 100%;
+    @include size(70px, 30px);
+    justify-content: center;
     border-radius: 10px;
     display: inline-flex;
     color: $light;
     font-family: $accentFont;
-    line-height: 14x
-     @include font(10, bold);
+    line-height: 14px;
+    @include font(10, bold);
   }
 }

diff --git a/src/scss/blocks/_index.scss b/src/scss/blocks/_index.scss
@@ -8,5 +8,8 @@
 @import "bScope";
 
 @import "_utilization/recycling";
+@import "_utilization/equipment";
+@import "_utilization/order-track";
+
 
 @import "bFooter";
